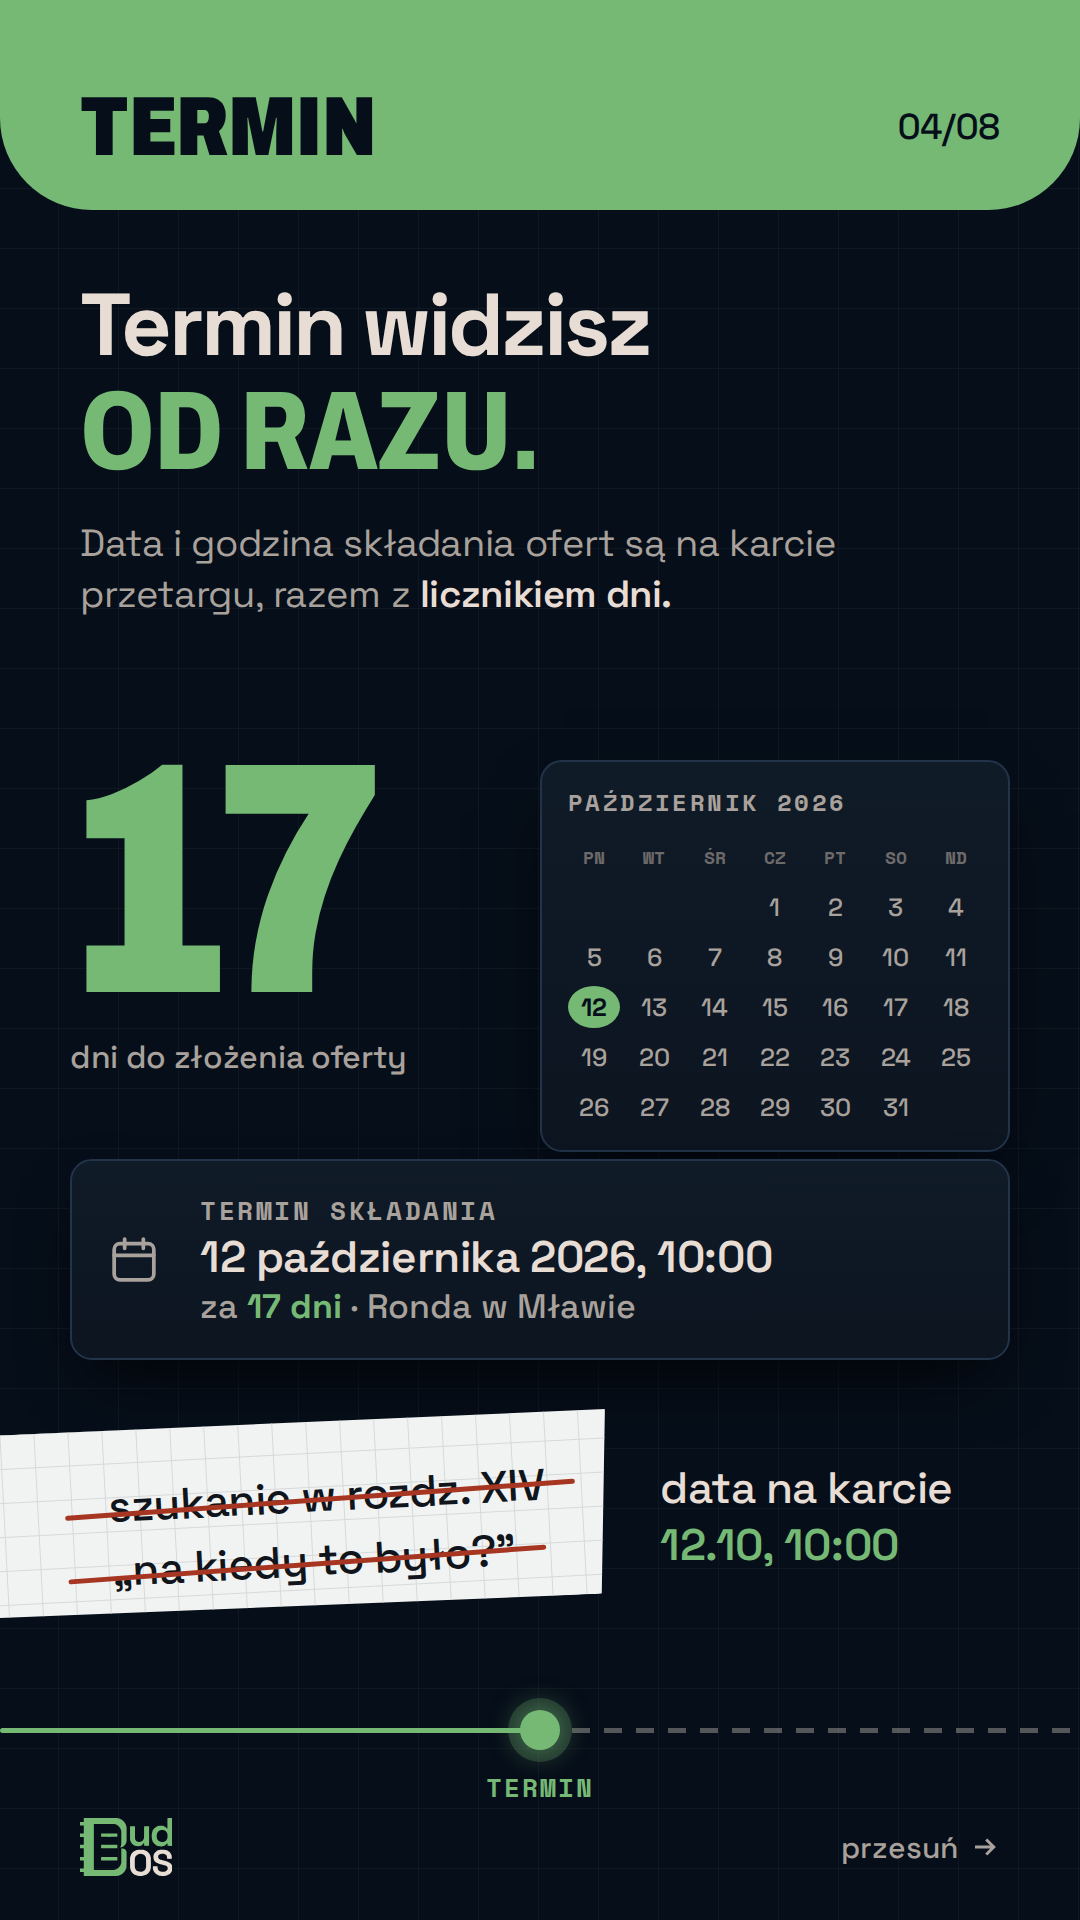
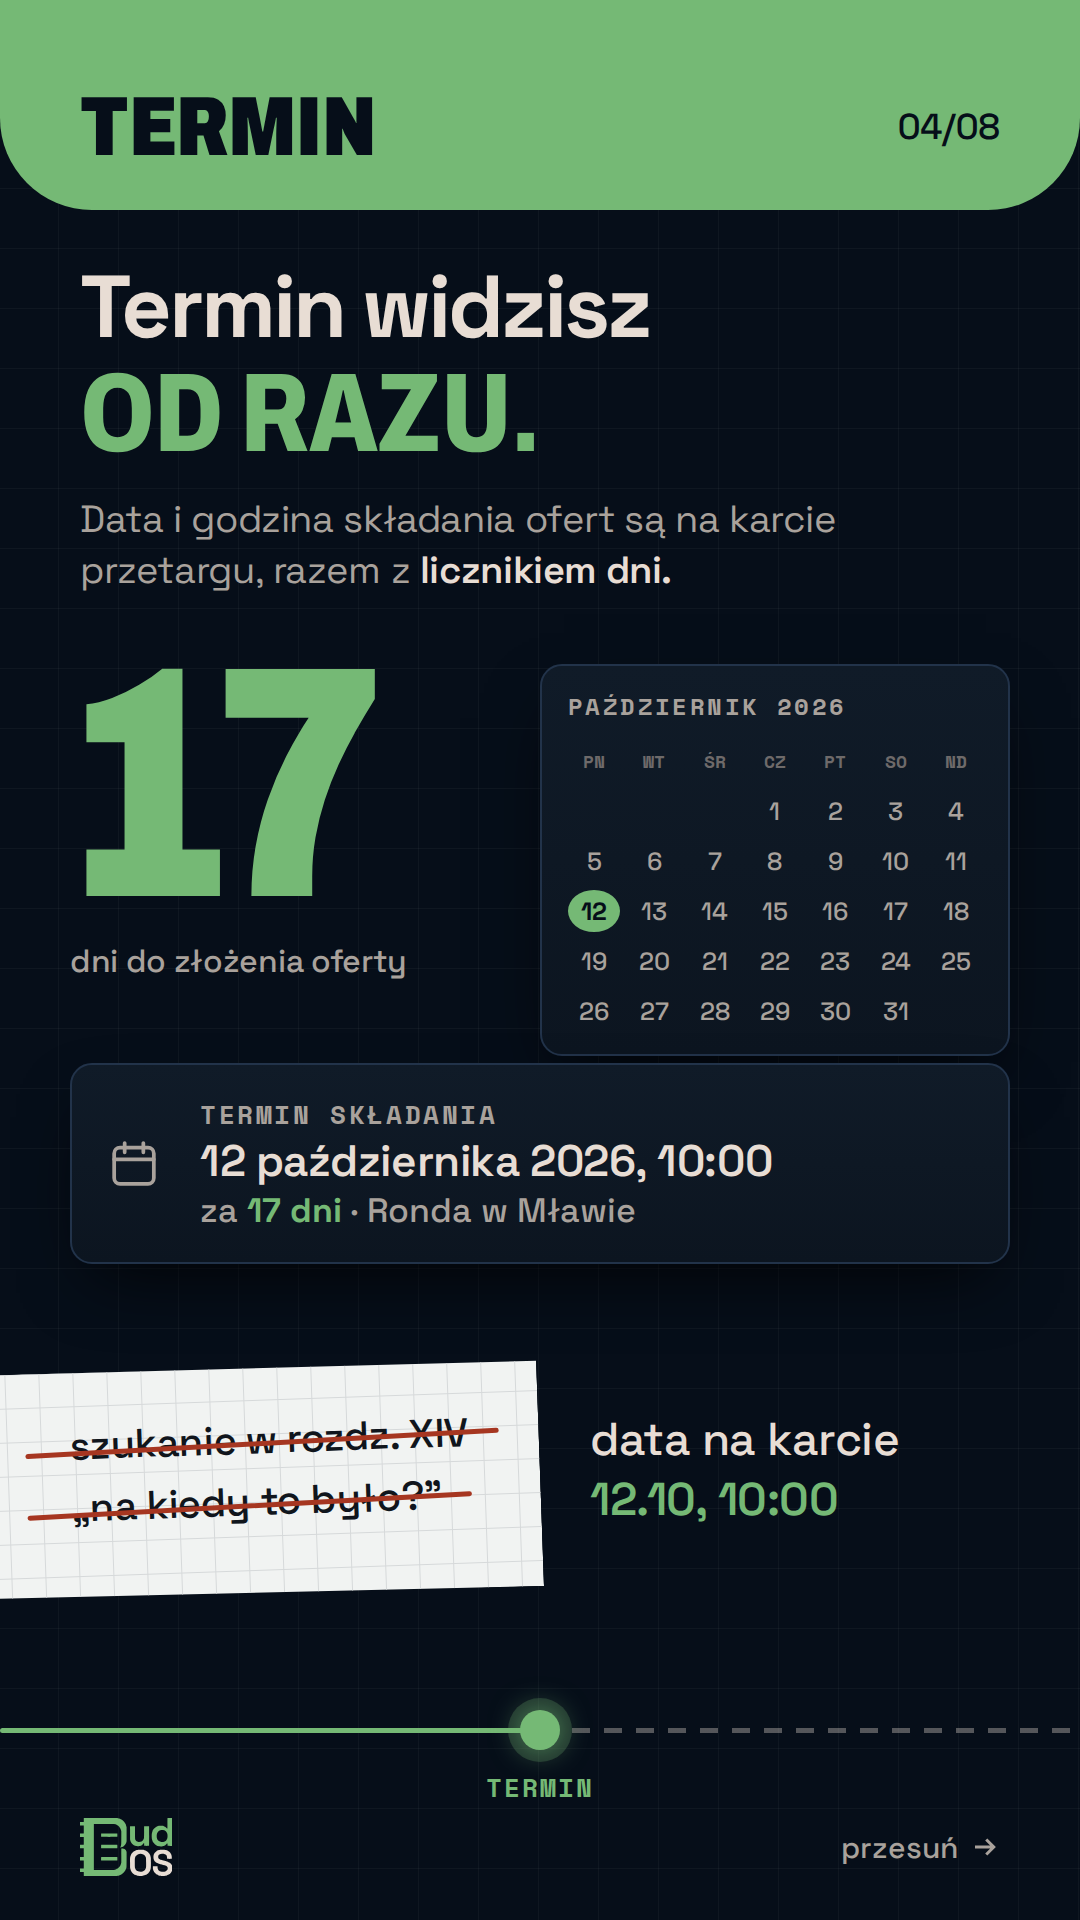
fix: carousel split screen centered, feature section raised
The before/after paper strip now splits the slide at the vertical
centre line (540 px) and the feature mock-ups sit directly under the
lead on every slide.

Claude-Session: https://claude.ai/code/session_01BfoHNEsjQojd9792NwEA7y

Changed region(s): [[0.0, 0.125, 0.9167, 0.8438]]

diff --git a/budos-campaign/carousel.html b/budos-campaign/carousel.html
@@ -49,22 +49,22 @@ body{font-family:var(--grot);font-size:15px;line-height:1.5;padding-inline:16px;
 .ban{position:absolute;left:0;right:0;top:0;height:210px;background:var(--green);border-radius:0 0 92px 92px;display:flex;align-items:center;justify-content:space-between;padding:44px 80px 0}
 .ban b{font:900 84px/1 var(--cond);font-stretch:78%;color:var(--ink);letter-spacing:-.005em;text-transform:uppercase}
 .ban span{font:500 36px var(--grot);color:var(--ink);font-variant-numeric:tabular-nums}
-.hd{position:absolute;left:80px;right:80px;top:280px}
+.hd{position:absolute;left:80px;right:80px;top:262px}
 .hd .a{display:block;font:700 88px/1.02 var(--grot);letter-spacing:-.035em;color:var(--cream)}
 .hd .b{display:block;font:800 112px/1 var(--cond);font-stretch:80%;color:var(--green);text-transform:uppercase;letter-spacing:-.005em;margin-top:6px}
-.lead{margin:30px 0 0;font:400 38px/1.34 var(--grot);color:var(--cream-2);letter-spacing:-.01em}
+.lead{margin:24px 0 0;font:400 38px/1.34 var(--grot);color:var(--cream-2);letter-spacing:-.01em}
 .lead b{color:var(--cream);font-weight:600}
-.vis{position:absolute;left:70px;right:70px;top:760px;height:600px}
+.vis{position:absolute;left:70px;right:70px;top:664px;height:600px}
 .card{background:linear-gradient(180deg,#101B28,#0C1520);border:2px solid #22334A;border-radius:22px;box-shadow:0 30px 70px -24px rgba(0,0,0,.85)}
 .tag{display:inline-block;font:500 26px var(--grot);padding:3px 14px;border-radius:8px;border:2px solid #2A3B52;background:#141F2D;color:var(--cream-2);vertical-align:middle}
 .mono{font-family:var(--mono)}
 /* paper strip (the cover's crossed-out list) */
-.note{position:absolute;left:0;right:0;top:1420px;height:190px}
-.note .paper{position:absolute;left:-30px;top:0;width:640px;height:190px;background-color:var(--paper);background-image:linear-gradient(#D6D9DA 1.5px,transparent 1.5px),linear-gradient(90deg,#D6D9DA 1.5px,transparent 1.5px);background-size:34px 34px;transform:rotate(-3deg);box-shadow:0 24px 50px -16px rgba(0,0,0,.7);clip-path:polygon(0 0,100% 3%,98% 100%,0 96%)}
-.note .x{position:absolute;left:110px;top:44px;width:470px;font:500 44px/1.45 var(--grot);color:#10151C;transform:rotate(-3deg);letter-spacing:-.01em}
+.note{position:absolute;left:0;right:0;top:1356px;height:230px}
+.note .paper{position:absolute;left:-60px;top:0;width:600px;height:230px;background-color:var(--paper);background-image:linear-gradient(#D6D9DA 1.5px,transparent 1.5px),linear-gradient(90deg,#D6D9DA 1.5px,transparent 1.5px);background-size:34px 34px;transform:rotate(-2deg);transform-origin:100% 50%;box-shadow:0 24px 50px -16px rgba(0,0,0,.7);clip-path:polygon(0 0,100% 2%,100% 100%,0 97%)}
+.note .x{position:absolute;left:70px;top:52px;width:440px;font:500 40px/1.55 var(--grot);color:#10151C;transform:rotate(-2deg);letter-spacing:-.01em}
 .note .x s{text-decoration:none;position:relative;white-space:nowrap}
 .note .x s::after{content:"";position:absolute;left:-44px;right:-30px;top:52%;height:5px;background:var(--red);border-radius:3px;transform:rotate(-1.2deg)}
-.note .ok{position:absolute;left:660px;right:60px;top:40px;font:500 44px/1.3 var(--grot);color:var(--cream);letter-spacing:-.01em}
+.note .ok{position:absolute;left:590px;right:60px;top:54px;font:500 46px/1.3 var(--grot);color:var(--cream);letter-spacing:-.01em}
 .note .ok b{color:var(--green);font-weight:600}
 /* route line through the whole carousel */
 .route{position:absolute;left:0;right:0;top:1690px;height:80px}

diff --git a/budos-campaign/carousel.src.html b/budos-campaign/carousel.src.html
@@ -49,22 +49,22 @@ body{font-family:var(--grot);font-size:15px;line-height:1.5;padding-inline:16px;
 .ban{position:absolute;left:0;right:0;top:0;height:210px;background:var(--green);border-radius:0 0 92px 92px;display:flex;align-items:center;justify-content:space-between;padding:44px 80px 0}
 .ban b{font:900 84px/1 var(--cond);font-stretch:78%;color:var(--ink);letter-spacing:-.005em;text-transform:uppercase}
 .ban span{font:500 36px var(--grot);color:var(--ink);font-variant-numeric:tabular-nums}
-.hd{position:absolute;left:80px;right:80px;top:280px}
+.hd{position:absolute;left:80px;right:80px;top:262px}
 .hd .a{display:block;font:700 88px/1.02 var(--grot);letter-spacing:-.035em;color:var(--cream)}
 .hd .b{display:block;font:800 112px/1 var(--cond);font-stretch:80%;color:var(--green);text-transform:uppercase;letter-spacing:-.005em;margin-top:6px}
-.lead{margin:30px 0 0;font:400 38px/1.34 var(--grot);color:var(--cream-2);letter-spacing:-.01em}
+.lead{margin:24px 0 0;font:400 38px/1.34 var(--grot);color:var(--cream-2);letter-spacing:-.01em}
 .lead b{color:var(--cream);font-weight:600}
-.vis{position:absolute;left:70px;right:70px;top:760px;height:600px}
+.vis{position:absolute;left:70px;right:70px;top:664px;height:600px}
 .card{background:linear-gradient(180deg,#101B28,#0C1520);border:2px solid #22334A;border-radius:22px;box-shadow:0 30px 70px -24px rgba(0,0,0,.85)}
 .tag{display:inline-block;font:500 26px var(--grot);padding:3px 14px;border-radius:8px;border:2px solid #2A3B52;background:#141F2D;color:var(--cream-2);vertical-align:middle}
 .mono{font-family:var(--mono)}
 /* paper strip (the cover's crossed-out list) */
-.note{position:absolute;left:0;right:0;top:1420px;height:190px}
-.note .paper{position:absolute;left:-30px;top:0;width:640px;height:190px;background-color:var(--paper);background-image:linear-gradient(#D6D9DA 1.5px,transparent 1.5px),linear-gradient(90deg,#D6D9DA 1.5px,transparent 1.5px);background-size:34px 34px;transform:rotate(-3deg);box-shadow:0 24px 50px -16px rgba(0,0,0,.7);clip-path:polygon(0 0,100% 3%,98% 100%,0 96%)}
-.note .x{position:absolute;left:110px;top:44px;width:470px;font:500 44px/1.45 var(--grot);color:#10151C;transform:rotate(-3deg);letter-spacing:-.01em}
+.note{position:absolute;left:0;right:0;top:1356px;height:230px}
+.note .paper{position:absolute;left:-60px;top:0;width:600px;height:230px;background-color:var(--paper);background-image:linear-gradient(#D6D9DA 1.5px,transparent 1.5px),linear-gradient(90deg,#D6D9DA 1.5px,transparent 1.5px);background-size:34px 34px;transform:rotate(-2deg);transform-origin:100% 50%;box-shadow:0 24px 50px -16px rgba(0,0,0,.7);clip-path:polygon(0 0,100% 2%,100% 100%,0 97%)}
+.note .x{position:absolute;left:70px;top:52px;width:440px;font:500 40px/1.55 var(--grot);color:#10151C;transform:rotate(-2deg);letter-spacing:-.01em}
 .note .x s{text-decoration:none;position:relative;white-space:nowrap}
 .note .x s::after{content:"";position:absolute;left:-44px;right:-30px;top:52%;height:5px;background:var(--red);border-radius:3px;transform:rotate(-1.2deg)}
-.note .ok{position:absolute;left:660px;right:60px;top:40px;font:500 44px/1.3 var(--grot);color:var(--cream);letter-spacing:-.01em}
+.note .ok{position:absolute;left:590px;right:60px;top:54px;font:500 46px/1.3 var(--grot);color:var(--cream);letter-spacing:-.01em}
 .note .ok b{color:var(--green);font-weight:600}
 /* route line through the whole carousel */
 .route{position:absolute;left:0;right:0;top:1690px;height:80px}
